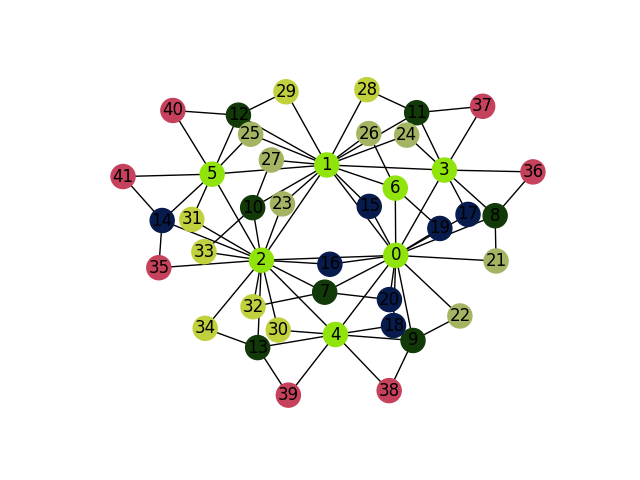
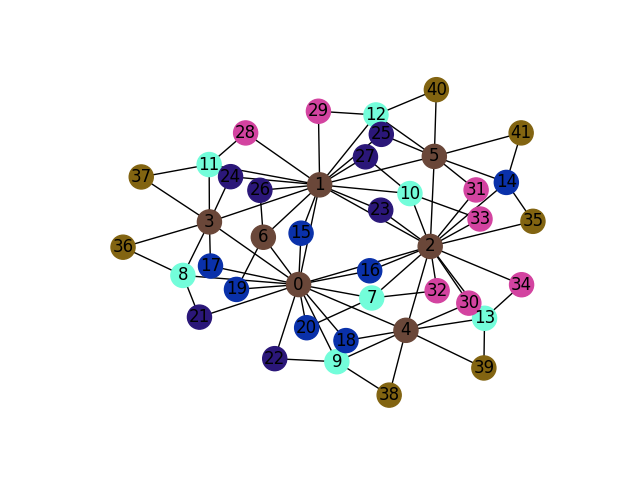
i want pictures

Changed region(s): [[0.1562, 0.1562, 0.875, 0.875]]

diff --git a/ex.py b/ex.py
@@ -24,7 +24,7 @@ def draw_graph(G, partitioning, alg_name="ex", graph_type="DGM", num=0):
     fig.savefig(graph_type + "-" + str(num) + ".png")
     
 G = nx.dorogovtsev_goltsev_mendes_graph(4)
-print(nxmetis.partition(G, 6))
+#print(nxmetis.partition(G, 6))
 draw_graph(G, nxmetis.partition(G, 6)[1], num=0)
-print(nxmetis.partition(G, 6, options = MetisOptions(contig = True)))
-draw_graph(G, nxmetis.partition(G, 6, options = MetisOptions(contig = True))[1], num=1)
+#print(nxmetis.partition(G, 6, options = MetisOptions(ccorder = True)))
+draw_graph(G, nxmetis.partition(G, 6, options = MetisOptions(ccorder = True))[1], num=1)
